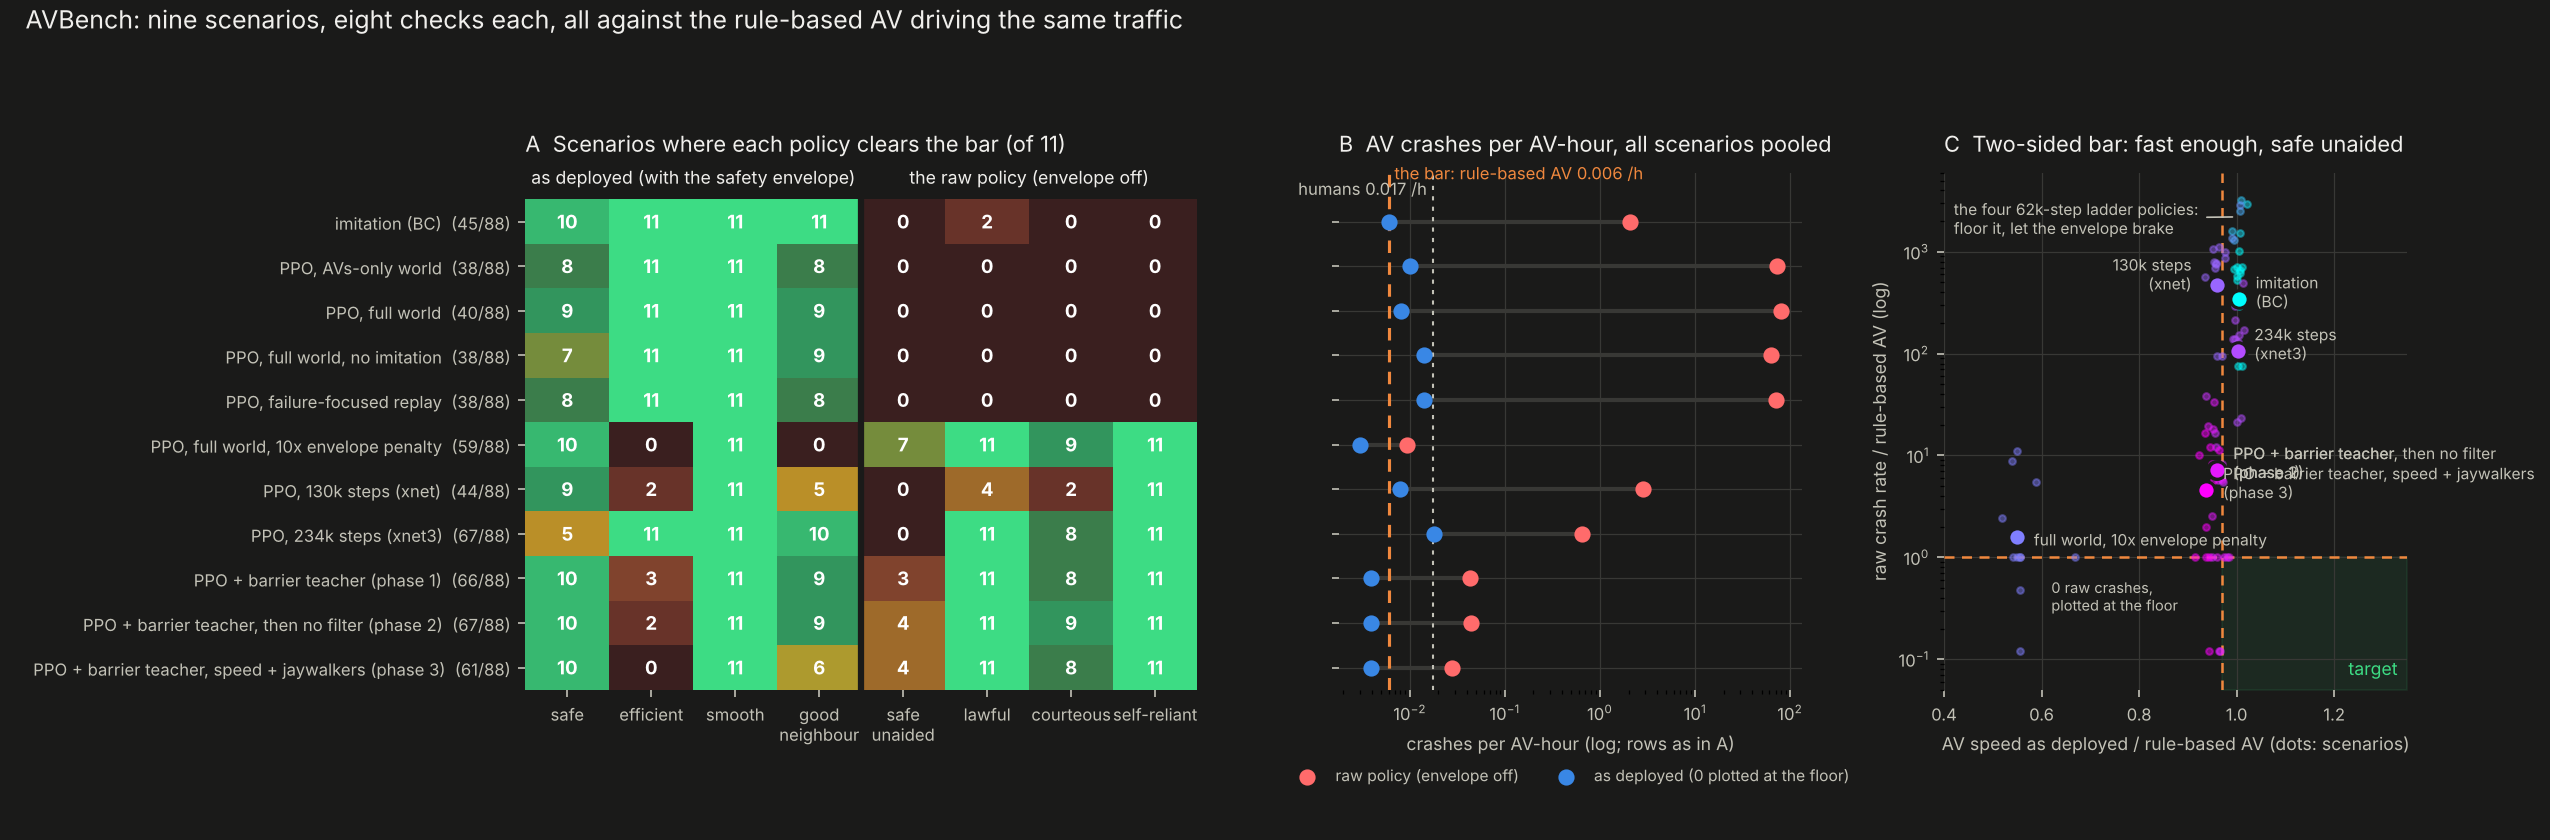
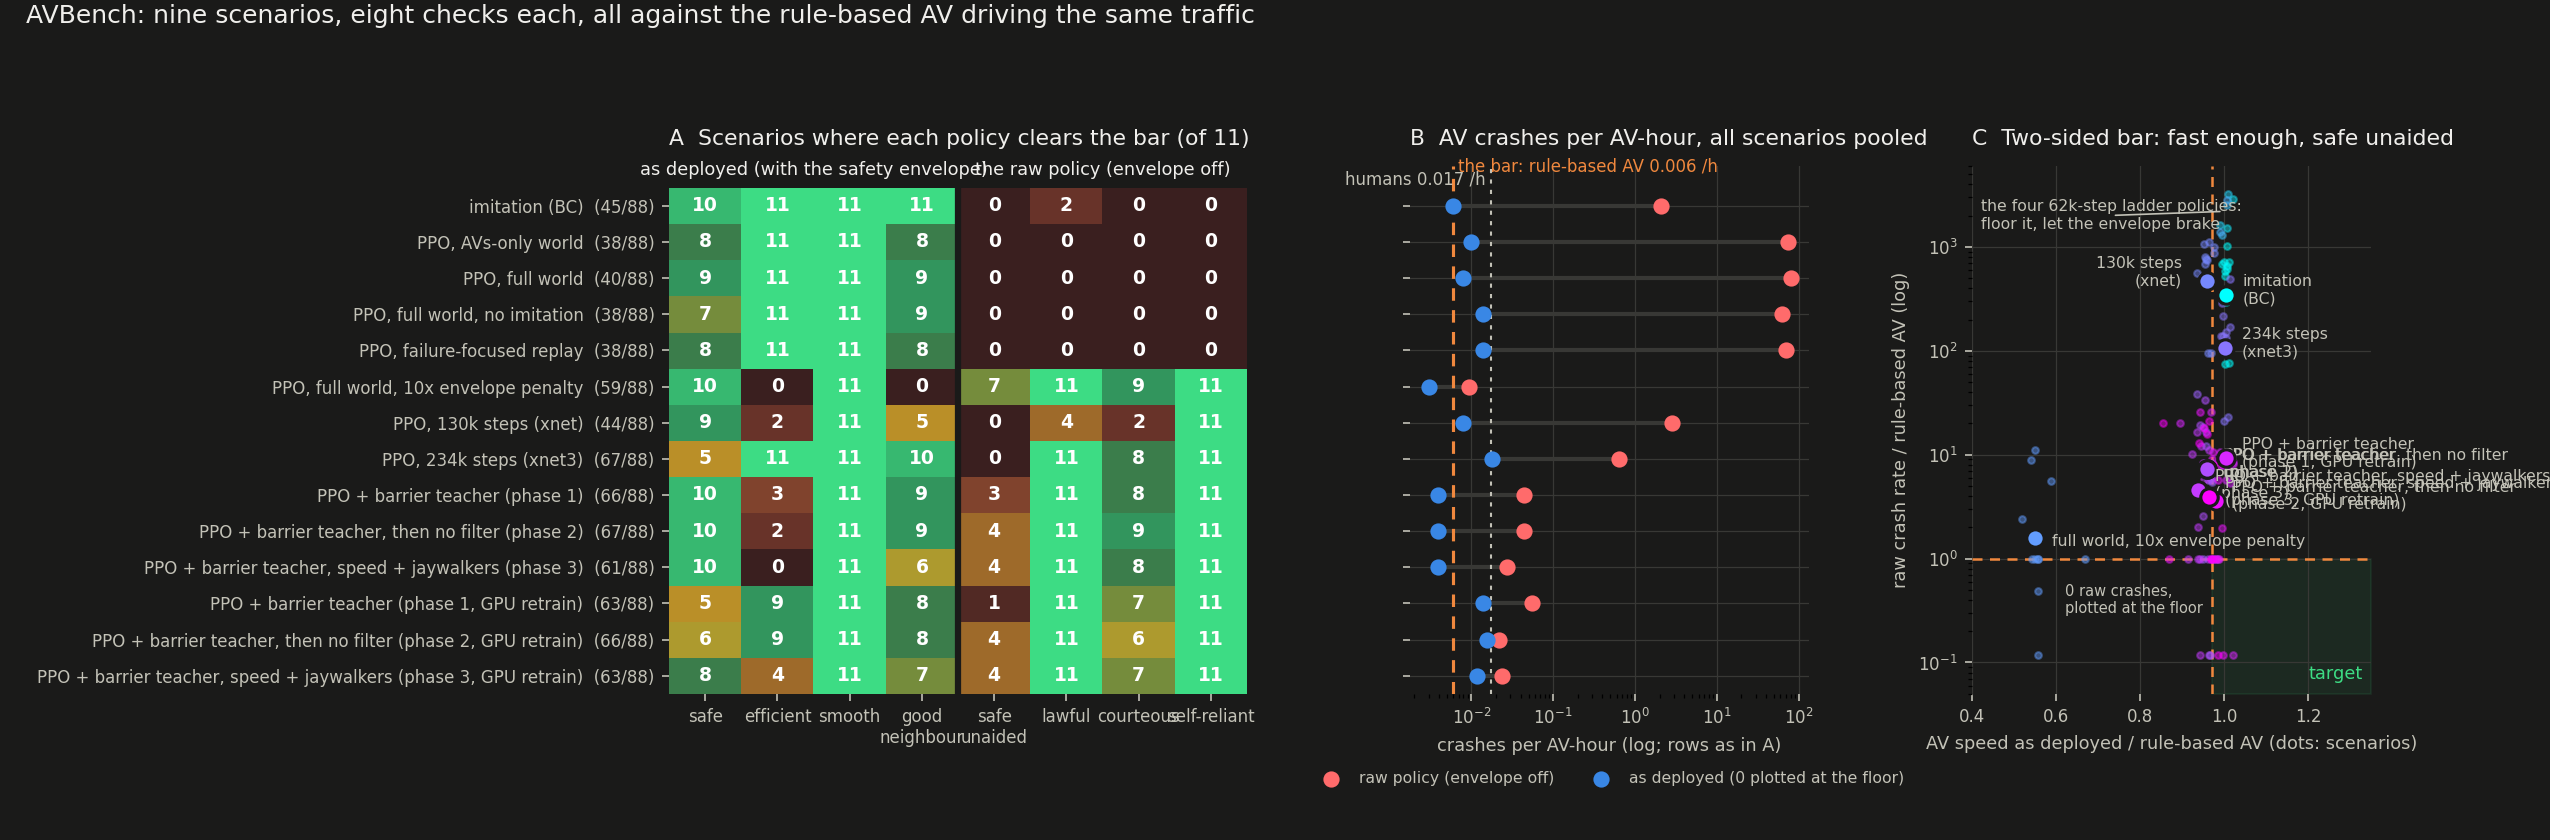
AVBench on all 18 scenarios from one L4 session; METRICS.md results; latent planner runs and GIFs
- bench: run/run_wm rewrote the metric header to the current list while keeping rows recorded under the older one,
  so the report crashed (and would have mislabelled counters). _load() now aligns every row on read; the 11 core
  scenario files are repaired.
- the GPU retrains of the barrier-teacher phases came out worse on the core scenarios than the originals (107-112
  vs 115-123 absolute checks), so the originals stay in results/unaided/phaseN and the retrains are their own
  leaderboard entries (results/unaided/gpu/): the spread of one recipe.
- latent world-model planner: all 3 scenarios x 2 modes; new planner GIFs.

diff --git a/METRICS.md b/METRICS.md
@@ -82,7 +82,38 @@ safety factor. `scorecard.SCALE` changes them.
 
 ## Results
 
-Pending: the long-tail and latent-planner runs are in progress. On the 11 core scenarios, the absolute tier already separates the policies: the rule-based AV passes 69 of 88 (it fails "comfortable" in all 11), the best learned policy (PPO with the barrier teacher, phase 2) 77, and no policy clears everything.
+All 18 scenarios (11 core + 7 long-tail), every policy, from one L4 GPU session (`scripts/gpu_session.sh`, 2026-10-22); the full
+tables are in `results/bench/leaderboard.md` and the chart in `docs/img/avbench.png`.
+
+**Absolute tier** (8 checks x 18 scenarios = 144). No policy clears every scenario, and the rule-based AV clears none: it fails
+"comfortable" in 16 of 18, and the long tail costs it most (35 of 56 there).
+
+| policy | checks passed (of 144) | core (of 88) | long-tail (of 56) | scenarios cleared | av_world score: core | long-tail | worst long-tail |
+|---|---|---|---|---|---|---|---|
+| PPO + barrier teacher, then no filter (phase 2) | **123** | 77 | **46** | 4 | 50.3 | 30.5 | 2.6 |
+| PPO + barrier teacher, speed + jaywalkers (phase 3) | 120 | 75 | 45 | **5** | 56.8 | **40.9** | 4.5 |
+| PPO + barrier teacher (phase 1) | 115 | 73 | 42 | 3 | 42.9 | 22.1 | 2.7 |
+| rule-based AV | 104 | 69 | 35 | 0 | **77.2** | 39.0 | 2.8 |
+| PPO, full world, 10x envelope penalty | 104 | 66 | 38 | 0 | 49.2 | 25.9 | **5.5** |
+| PPO, 234k steps (xnet3) | 76 | 48 | 28 | 0 | 6.1 | 5.4 | 0.8 |
+
+* **The best learned policies beat the rule-based AV on the absolute tier but not on the score.** Phase 2 passes 19 more checks,
+  mostly on comfort, yet the rule-based AV keeps the highest core av_world score (77.2): the score multiplies in unaided harm per
+  hour, and the barrier-teacher policies still crash 1.3-1.6x as often as it does with no filter (0.10-0.12 vs 0.08 per AV-hour).
+  "safer unaided" is their most failed check (12-13 of 18).
+* **The long tail is where the learned policies catch up.** Phase 3, trained with jaywalkers and a progress bonus, edges out the
+  rule-based AV on the long-tail score (40.9 vs 39.0). Every policy's worst long-tail scenario scores under 6: the perception
+  faults (missed stalled car, misclassified jaywalker) are unsolved.
+* **Retraining is noisy.** Phases 1-3 were retrained on the GPU with the same recipe (`results/unaided/gpu/`, listed as "GPU
+  retrain"). They pass 107-112 checks against the originals' 115-123, and score 7-10 points lower on the core scenarios, but higher
+  on the long tail for phases 1 and 2 (22.6 and 37.3 vs 22.1 and 30.5). A one-run comparison between policies within about 10
+  points of av_world score, or about 10 absolute checks, is within the spread of one recipe; the originals stay the reference
+  checkpoints.
+* **The latent world-model planner (wm-mpc) is not competitive yet.** On its 3 scenarios it passes 8 of 24 checks with an av_world
+  score of 0.8. With no filter it crashes 0.47 times per AV-hour, fewer than the PPO policy it uses as its proposal prior (0.64),
+  so planning in the latent space helps, but it is 15-60x the barrier-teacher policies' rate. The retrained model ranks crashes well
+  (held-out AUROC 0.958) but predicts the stop-line gap worse than holding it constant (2 s error 36 m vs 8.6 m) and the merge gaps
+  no better (`results/wmplan/model_eval.json`), and those are the margins the planner scores plans by.
 
 ## Limits
 
@@ -94,4 +125,7 @@ Pending: the long-tail and latent-planner runs are in progress. On the 11 core s
 * **The bars are borrowed.** The safety bar compares with simulated humans, whose crash rates are calibrated to published statistics
   but whose everyday driving is not realistic (see [INCIDENT_AUDIT.md](INCIDENT_AUDIT.md)). The comfort bar is nuPlan's. The harm
   weights and score scales are assumptions, stated so they can be changed.
-* **The latent planner ran on 3 of 18 scenarios** (about 10 minutes per run with every AV planned), unaided and with the envelope only.
+* **The latent planner ran on 3 of 18 scenarios** (about 10 minutes per run on CPU, under 2 on an L4, with every AV planned), unaided
+  and with the envelope only.
+* **One training run per policy.** The GPU retrains show the spread of one recipe is about as large as most gaps between
+  policies; ranking them properly needs several seeds each.
